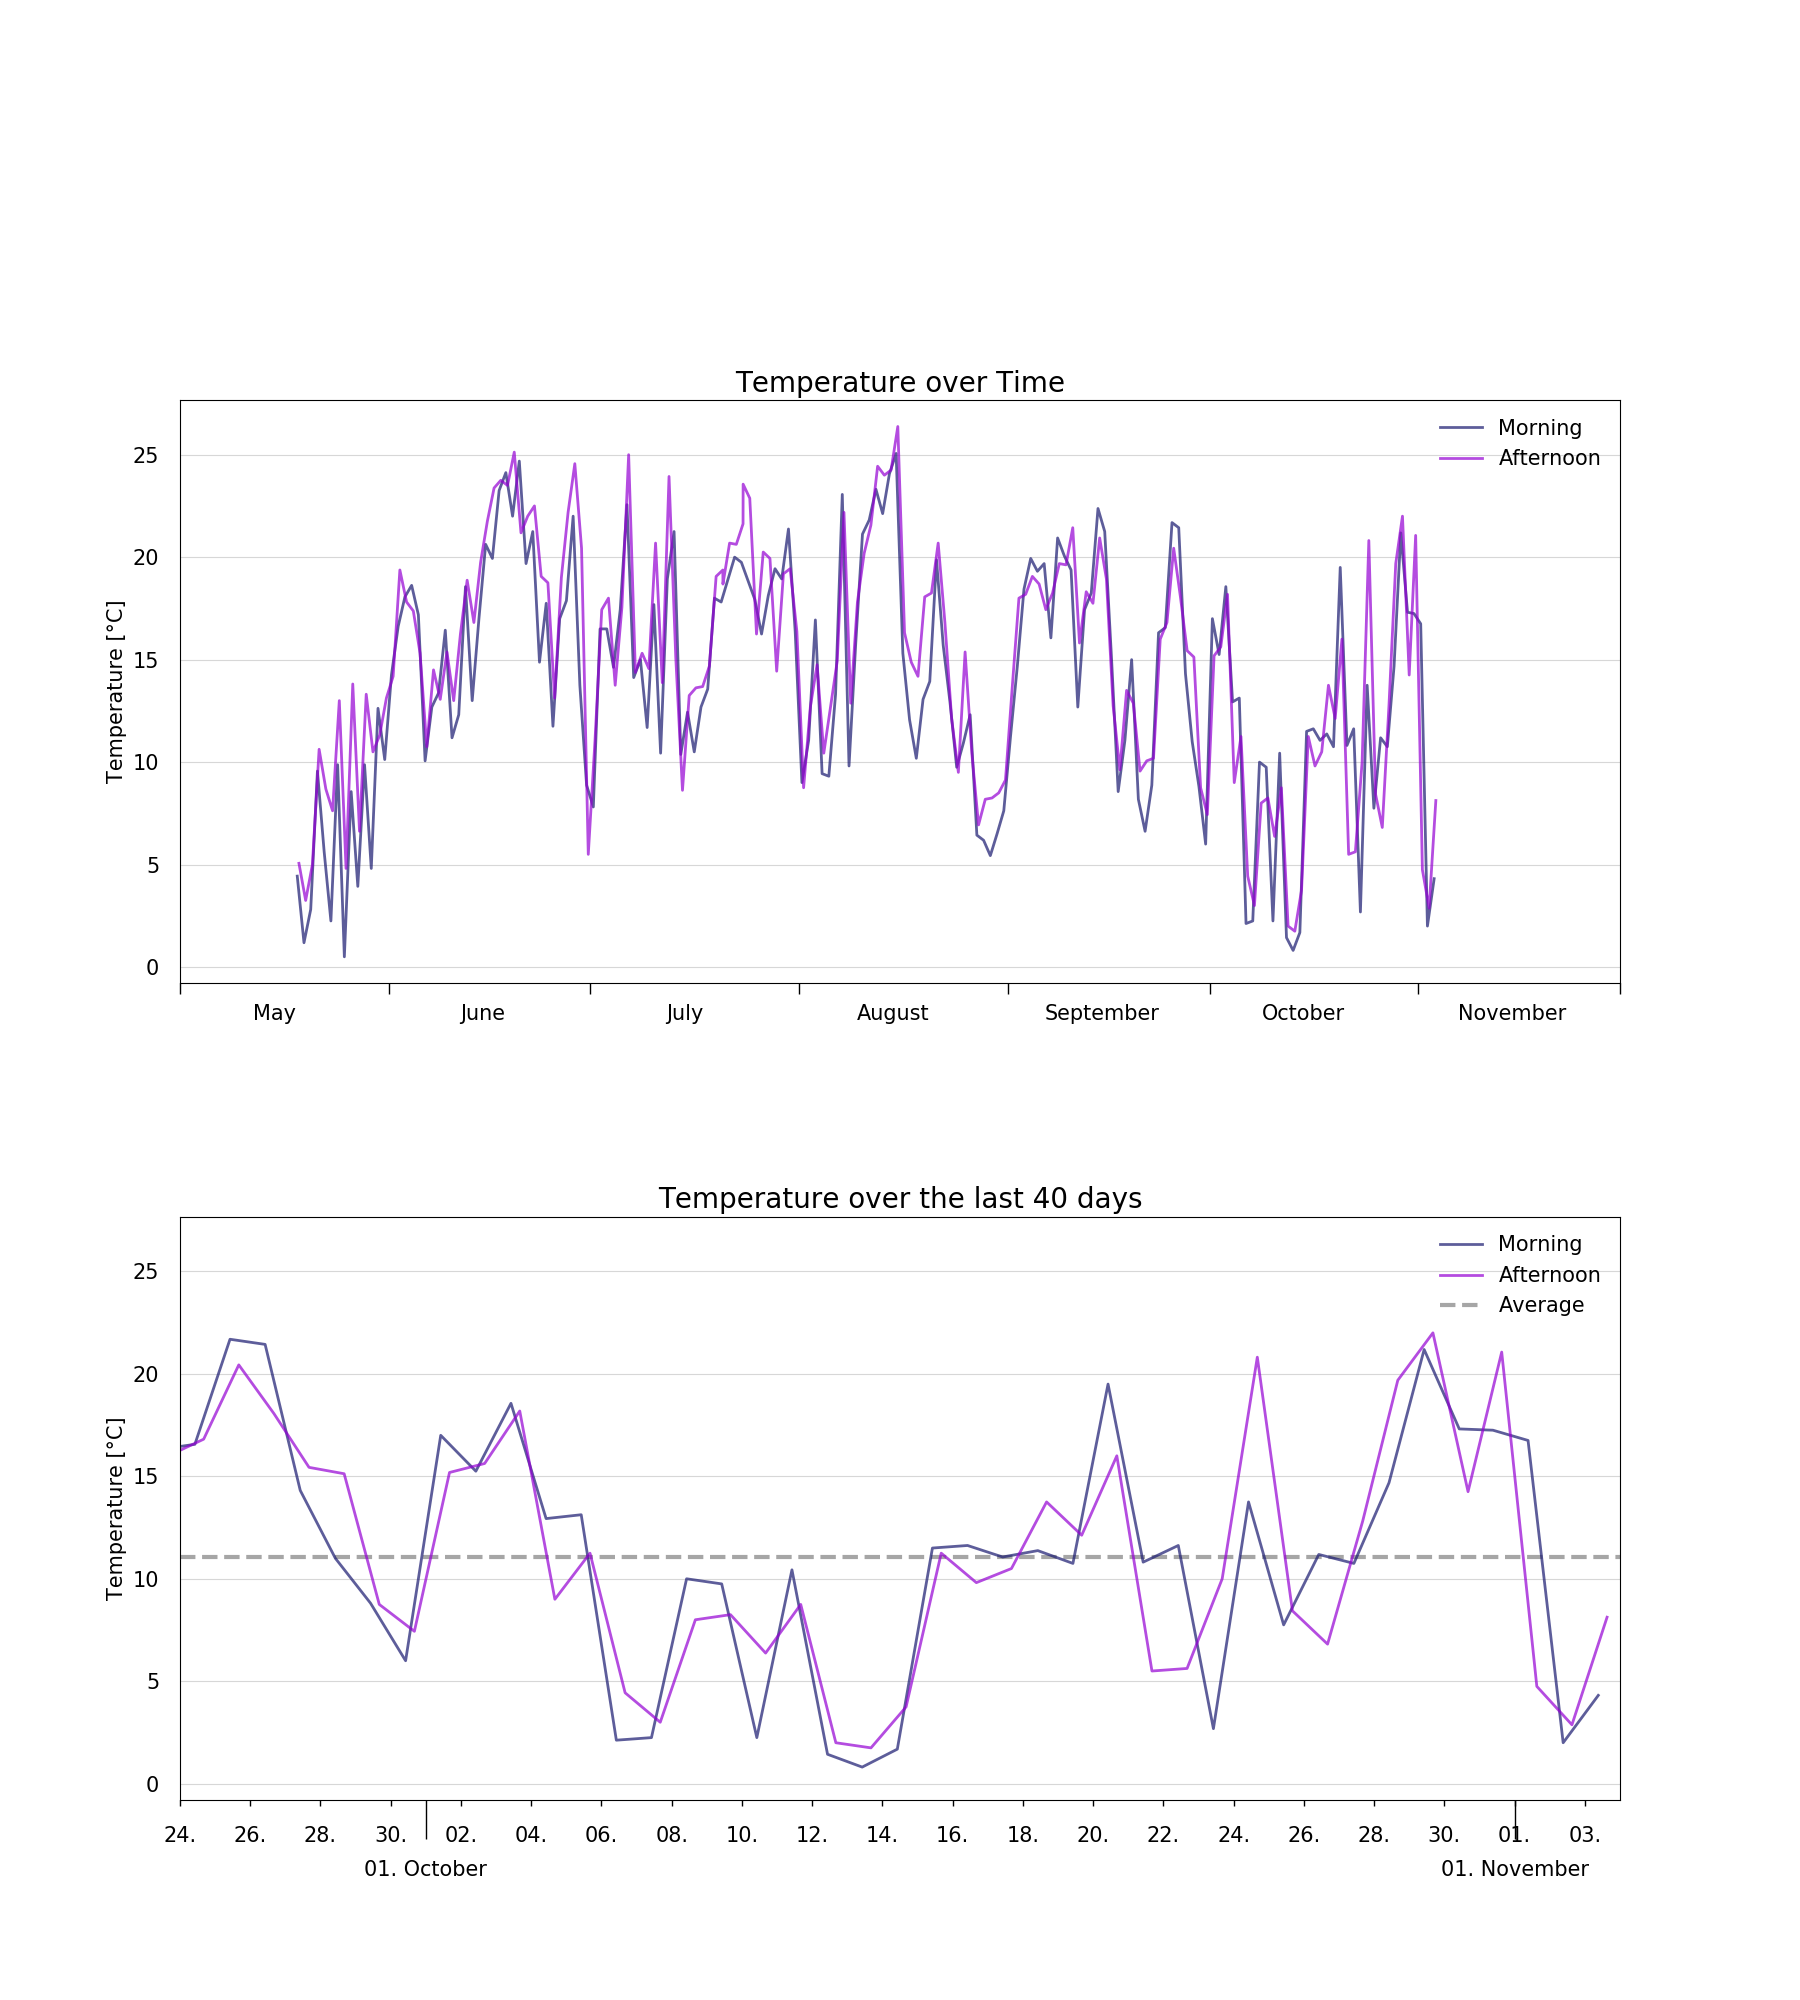
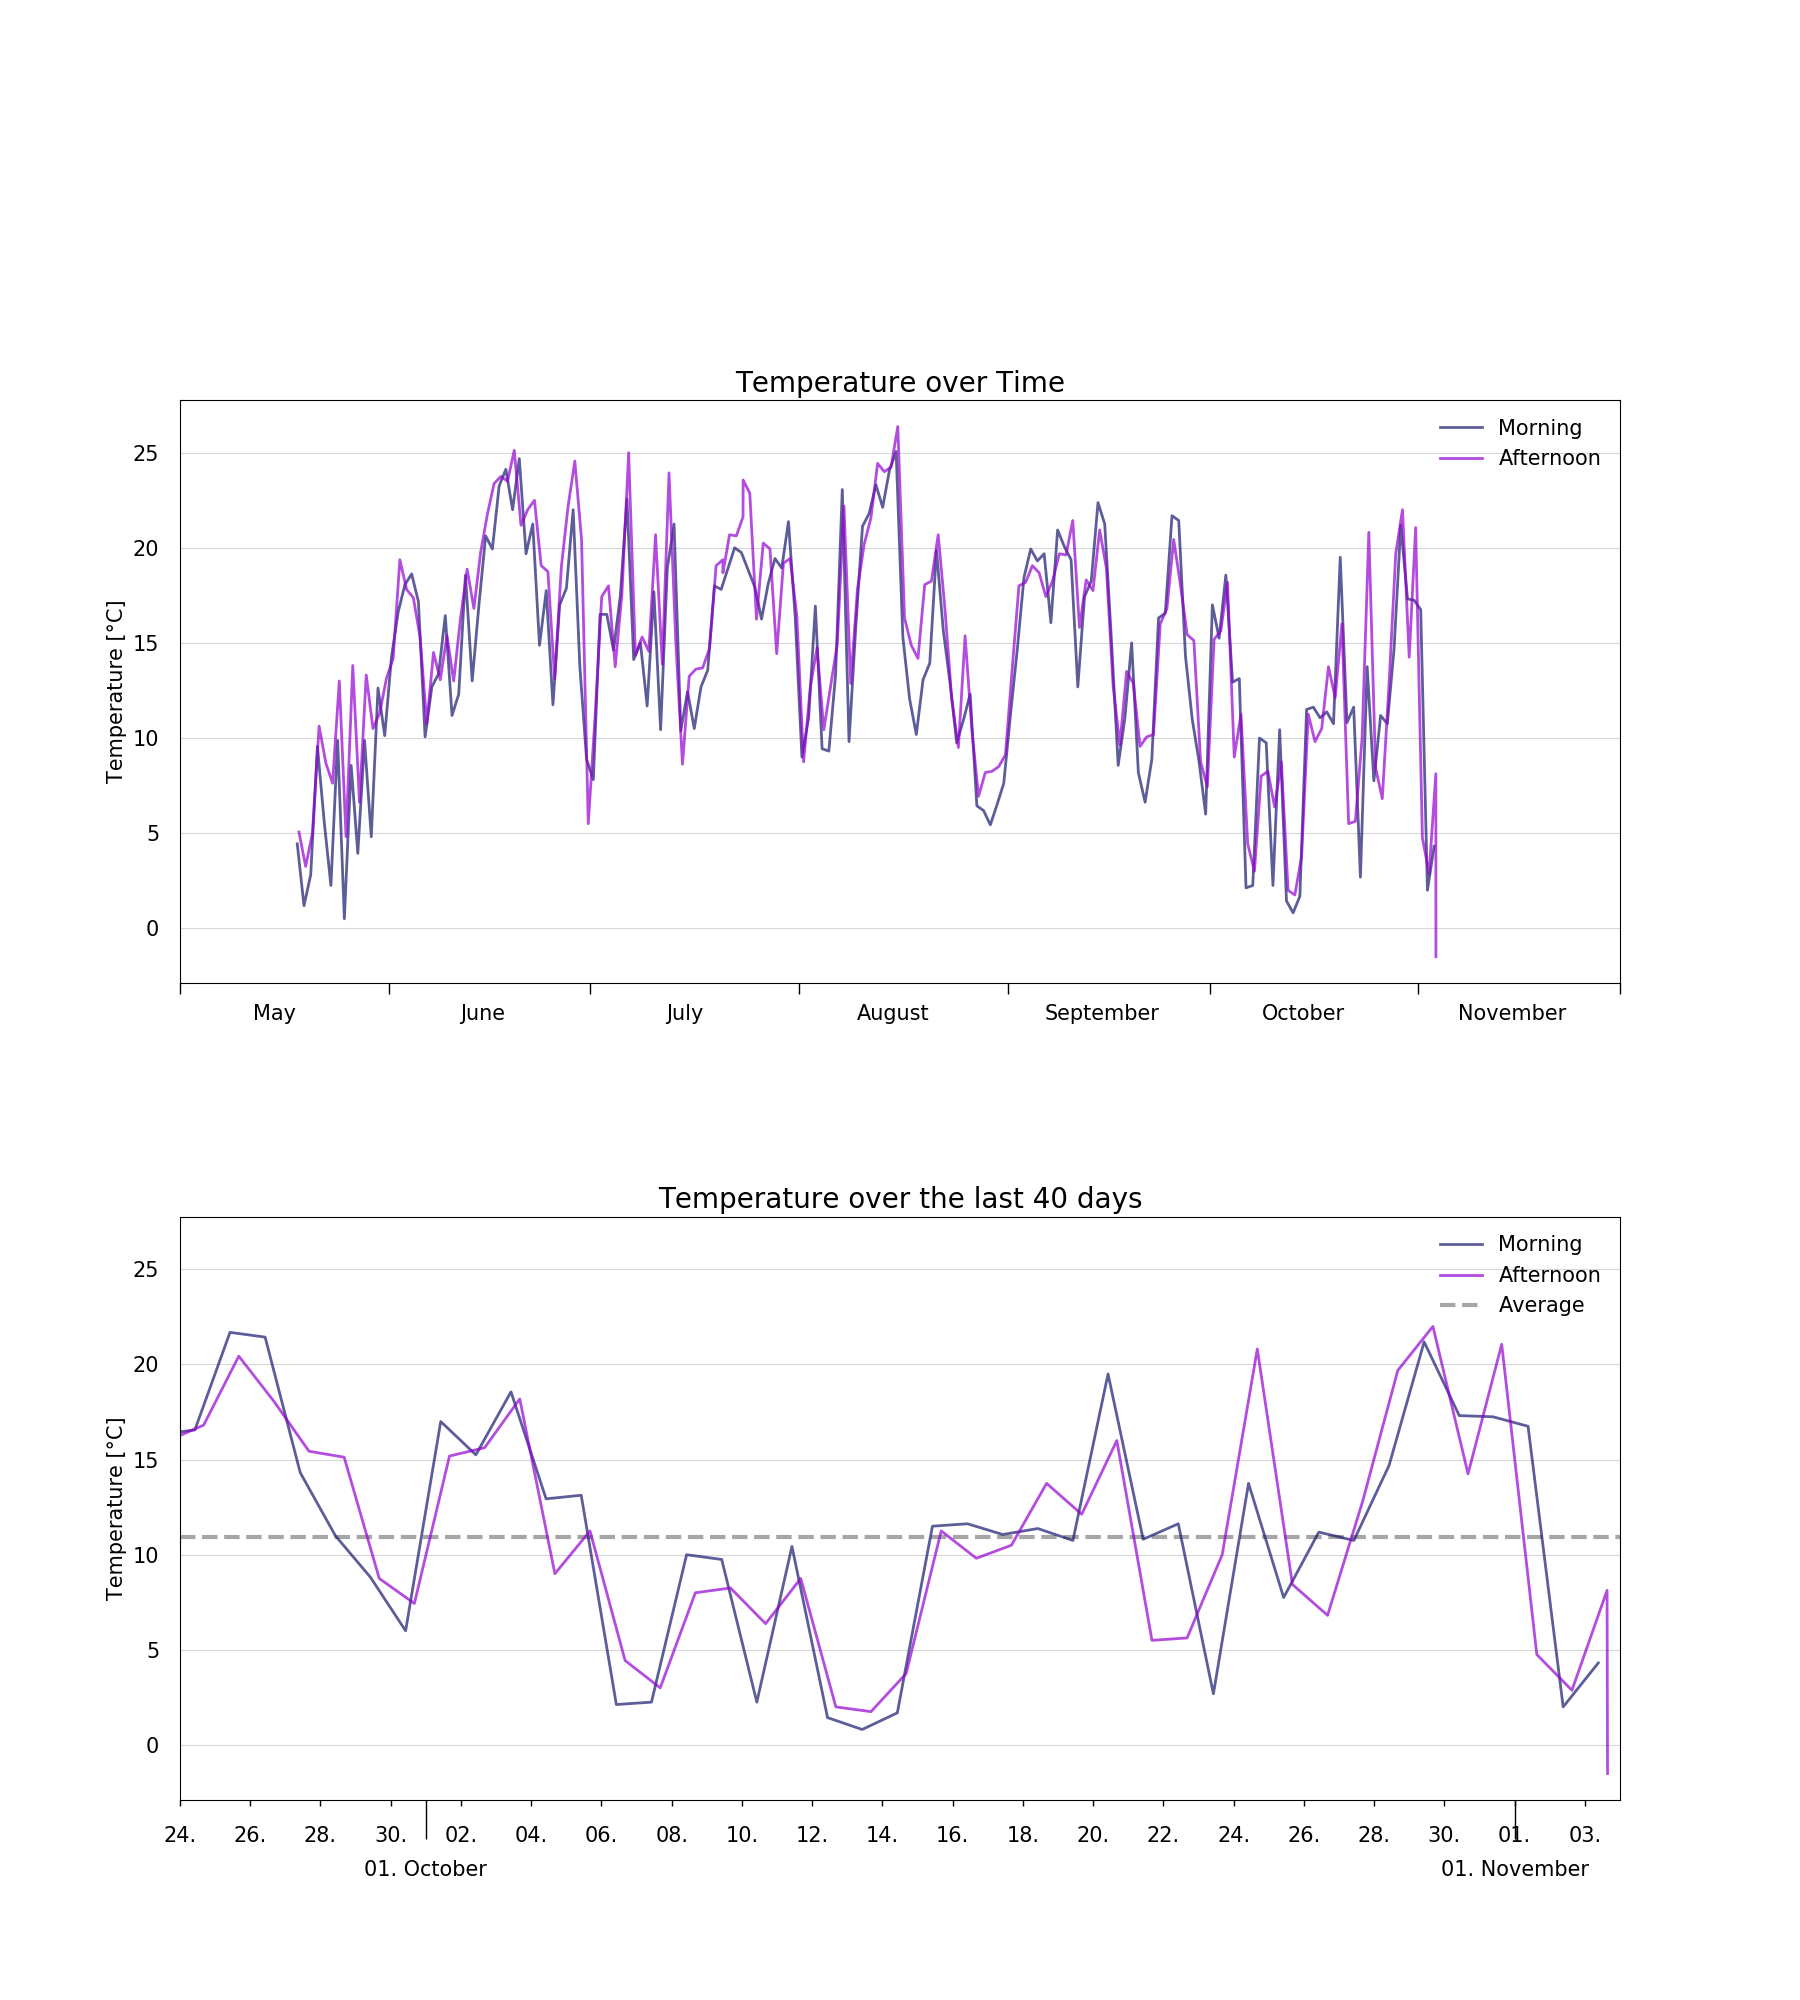
I'm a bot beep boop

Changed region(s): [[0.1556, 0.217, 0.8089, 0.465], [0.1556, 0.651, 0.9022, 0.899], [0.0933, 0.651, 0.1556, 0.744]]

diff --git a/resources/huette.md b/resources/huette.md
@@ -6,13 +6,13 @@ image: '/assets/img/'
 description: 'Live image from the Austrian alps'
 twitter_text: ' '
 ---
-## Latest image from 03 November 2021 at 15:10
+## Latest image from 03 November 2021 at 15:29
 <div class="huette">
   <div class="huette-image">
     <img src="{{ "/assets/img/huette.jpg" | prepend: site.baseurl }}">
   </div>
   <div class="huette-text">
-        <h2>Current Temperature: 8.125°C</h2>
+        <h2>Current Temperature: -1.5°C</h2>
         <p>A solar powered raspberry pi left alone in the wild is sending daily images and temperature data to this website. It should give you an impression about the current weather in the "Brixental".</p>
 
   </div>

diff --git a/rpi-script/huette.md b/rpi-script/huette.md
@@ -6,13 +6,13 @@ image: '/assets/img/'
 description: 'Live image from the Austrian alps'
 twitter_text: ' '
 ---
-## Latest image from 03 November 2021 at 15:10
+## Latest image from 03 November 2021 at 15:29
 <div class="huette">
   <div class="huette-image">
     <img src="{{ "/assets/img/huette.jpg" | prepend: site.baseurl }}">
   </div>
   <div class="huette-text">
-        <h2>Current Temperature: 8.125°C</h2>
+        <h2>Current Temperature: -1.5°C</h2>
         <p>A solar powered raspberry pi left alone in the wild is sending daily images and temperature data to this website. It should give you an impression about the current weather in the "Brixental".</p>
 
   </div>
